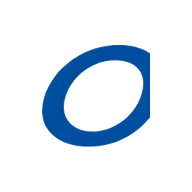
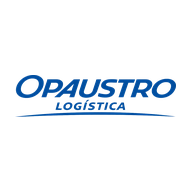
Icono de la app: usar miniatura del wordmark completo en vez del aro suelto
A pedido del usuario, el icono ahora muestra el logo completo
"OPAUSTRO LOGISTICA" en miniatura sobre fondo blanco.

Changed region(s): [[0.0625, 0.2188, 0.9375, 0.7812]]

diff --git a/sw.js b/sw.js
@@ -2,7 +2,7 @@
 // Service Worker — Mapas Diarios PWA
 // Permite instalación en pantalla de inicio y caché básico
 // ═══════════════════════════════════════════════════════════
-const CACHE_NAME = 'mapas-diarios-v46';
+const CACHE_NAME = 'mapas-diarios-v47';
 // Caché separada para las imágenes del mapa (calles) -- ruta-dinamica.js la
 // llena por adelantado con la zona de la ruta del día. Aparte de CACHE_NAME
 // para que actualizar la app (subir CACHE_NAME) no borre el mapa ya descargado.
